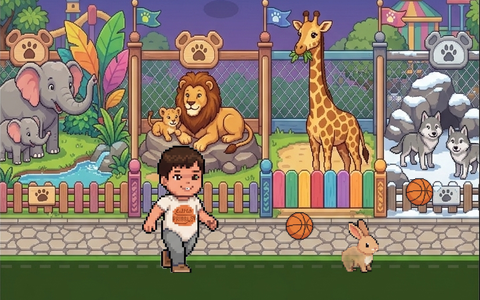
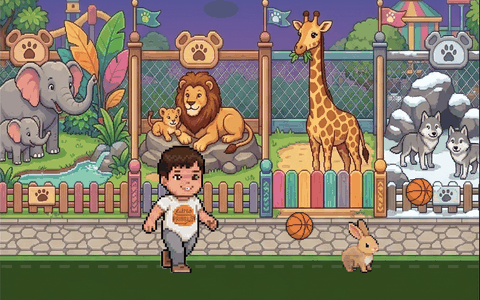
Home page: 256-colour runner card (283 KB to 81 KB)

diff --git a/home/make_home_art.py b/home/make_home_art.py
@@ -36,7 +36,9 @@ def shared(name):
     return Image.open(os.path.join(ROOT, "assets", name)).convert("RGBA")
 
 
-def save(img, name):
+def save(img, name, colors=0):
+    if colors:  # the resampled zoo has thousands of near-duplicate colours; 256 look the same
+        img = img.convert("RGB").quantize(colors=colors, method=Image.Quantize.MEDIANCUT, dither=Image.Dither.NONE)
     img.save(os.path.join(OUT, name), optimize=True)
     print("wrote", name, img.size)
 
@@ -197,7 +199,7 @@ def ansel_run():
 
 
 def main():
-    save(card_runner(), "card_runner.png")
+    save(card_runner(), "card_runner.png", colors=256)
     save(card_pumpkin(), "card_pumpkin.png")
     save(card_lumber(), "card_lumber.png")
     save(card_leaves(), "card_leaves.png")
